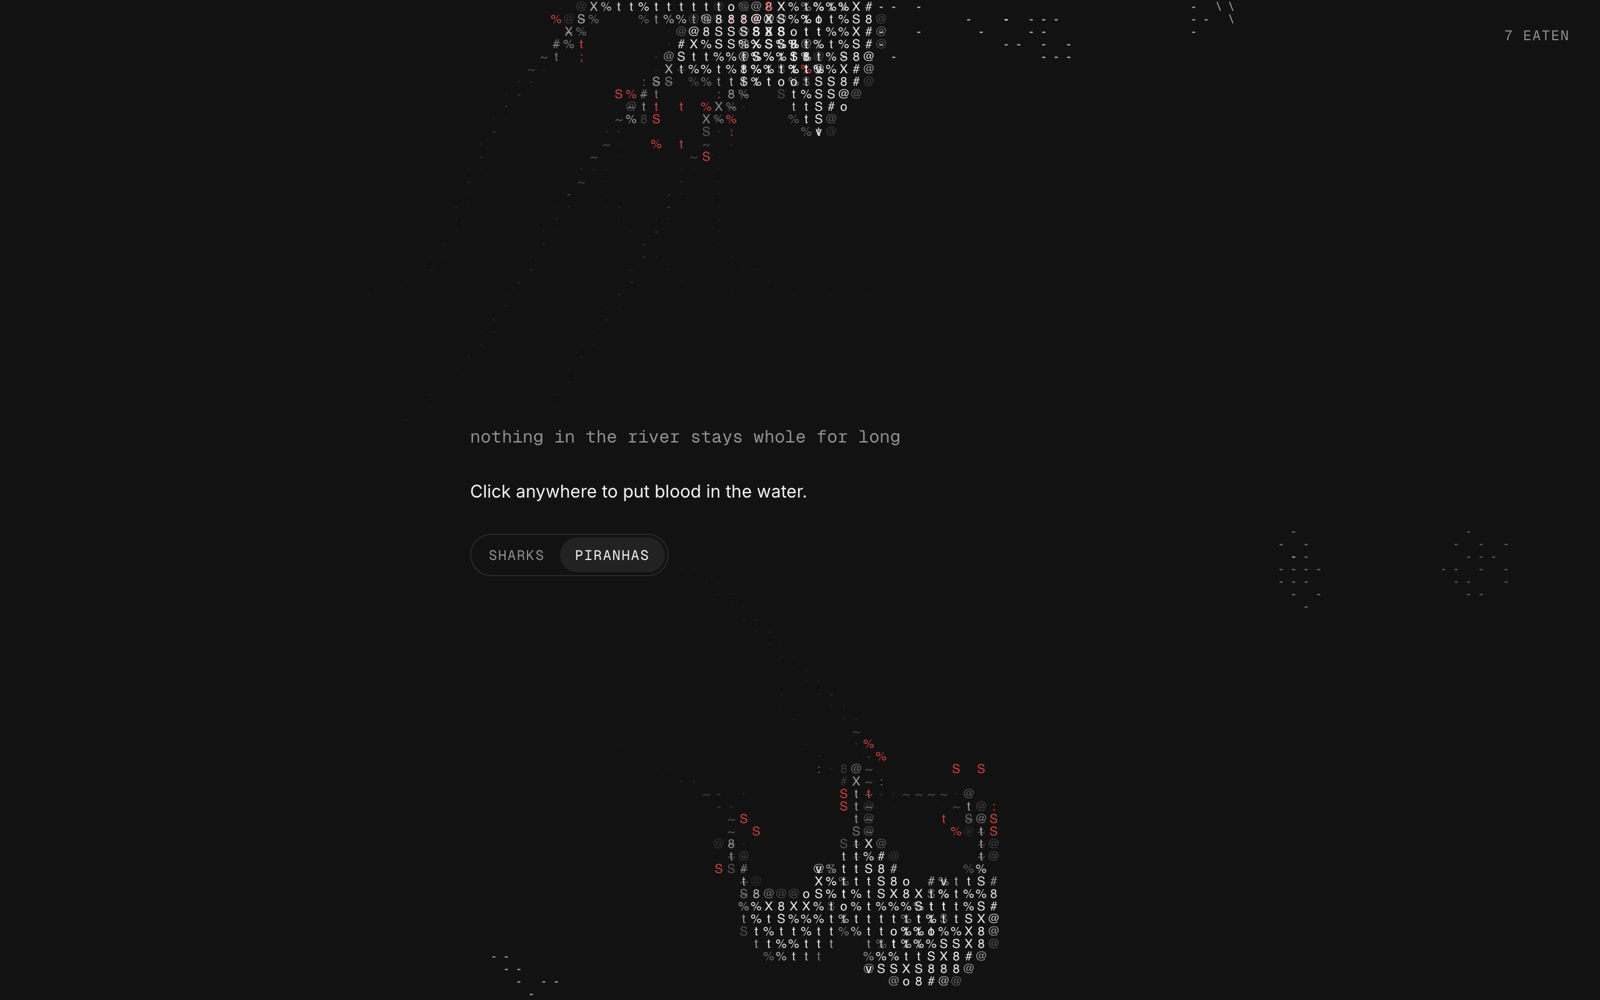
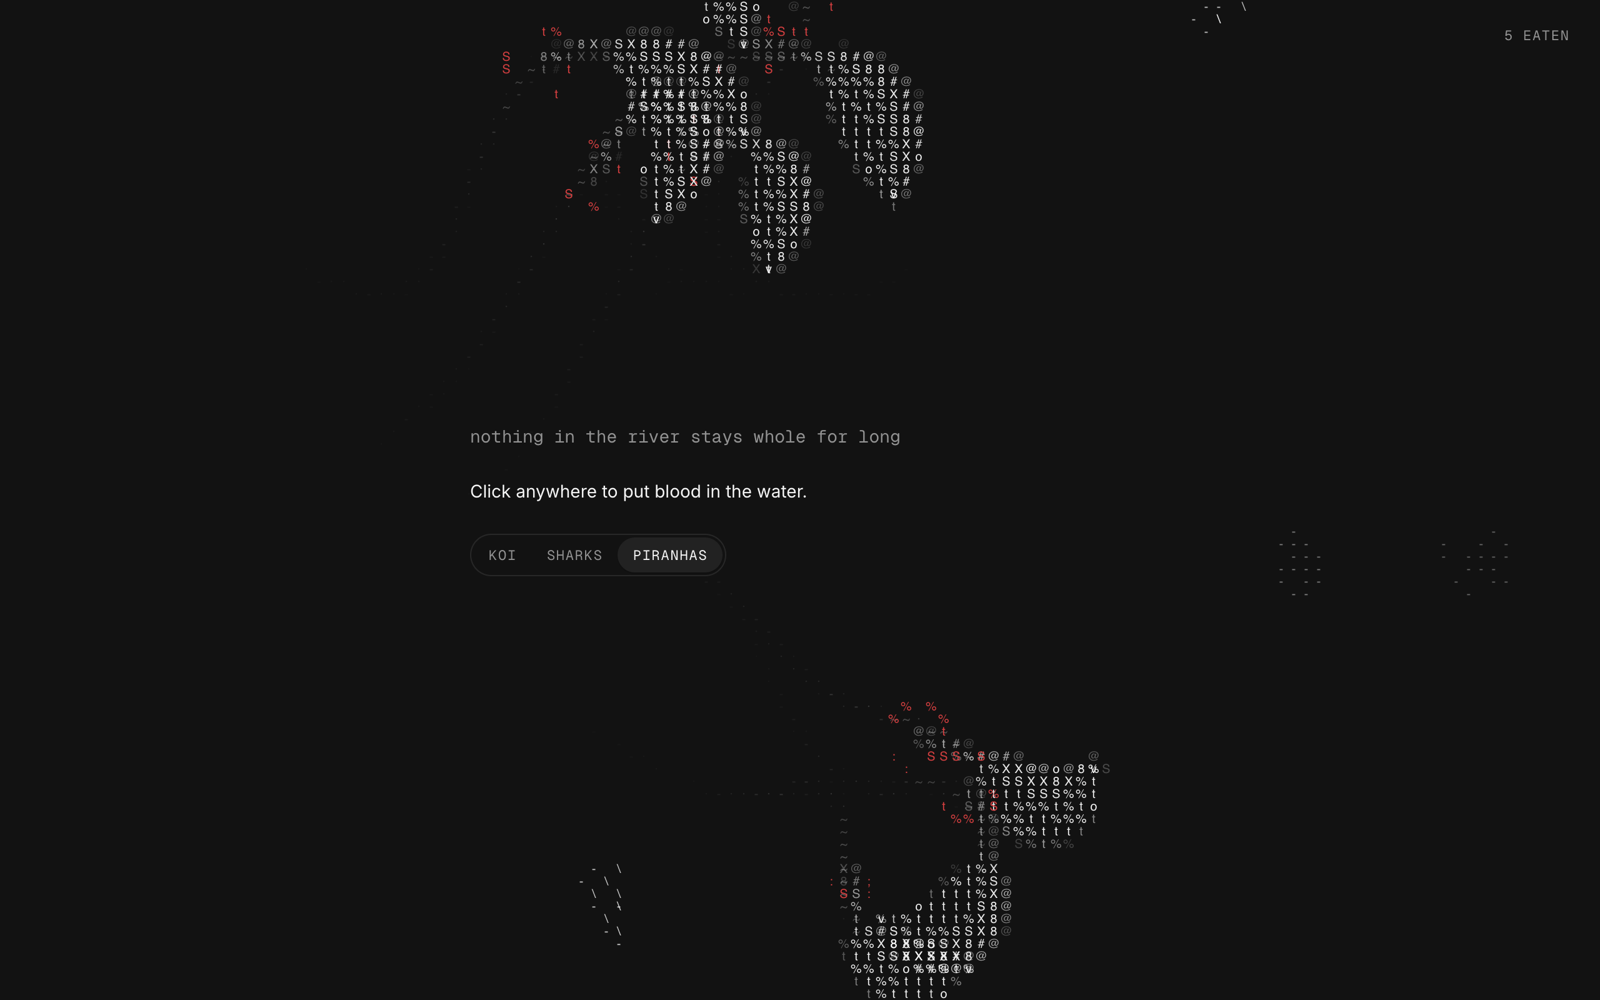
Koi drawn like the reference: glyph-cut tiles lit along the back, patches deepening to rust, a dotted shadow, a dark tail fan; koi joins sharks and piranhas behind one switch; the playground starts dark; useAsciiCanvas gives draw the page's paper

diff --git a/registry/examples/ocean.tsx b/registry/examples/ocean.tsx
@@ -1,50 +1,61 @@
 import * as React from "react"
 
+import { KoiPond } from "@/components/blocks/koi-pond"
 import { Ocean } from "@/components/blocks/ocean"
 import { Segmented, SegmentedItem } from "@/components/ds/segmented"
 
-// Example: the ocean as a page's backdrop, sharks or a piranha pack. A short
-// line sits over the water and the corner counts what was eaten; switching
-// predator starts a new count.
+// Example: the ASCII water as a page's backdrop, koi, sharks or a piranha
+// pack. A short line sits over the water, the switch picks what swims, and
+// the corner counts what was eaten; switching starts a new count.
 
-const PREDATORS = [
-  { value: "shark", label: "Sharks" },
-  { value: "piranha", label: "Piranhas" },
-] as const
+type Water = "koi" | "shark" | "piranha"
 
-export function OceanExample({ predator: initial = "shark" }: { predator?: "shark" | "piranha" }) {
-  const [predator, setPredator] = React.useState<"shark" | "piranha">(initial)
+const WATERS: { value: Water; label: string; line: string; hint: string }[] = [
+  { value: "koi", label: "Koi", line: "in a pond of patient things, cast a little food", hint: "Click anywhere to drop food. The koi turn for it." },
+  { value: "shark", label: "Sharks", line: "the quiet ones circle the stragglers", hint: "Click anywhere to drop a school of fish." },
+  { value: "piranha", label: "Piranhas", line: "nothing in the river stays whole for long", hint: "Click anywhere to put blood in the water." },
+]
+
+export function OceanExample({ predator: initial = "shark" }: { predator?: Water }) {
+  const [water, setWater] = React.useState<Water>(initial)
   const [eaten, setEaten] = React.useState(0)
+  const w = WATERS.find((x) => x.value === water)!
 
-  return (
-    <Ocean key={predator} predator={predator} className="h-svh w-full cursor-crosshair" onEat={setEaten}>
+  const content = (
+    <>
       <div className="pointer-events-none relative mx-auto flex h-full max-w-xl flex-col justify-center gap-6 px-6">
-        <p className="font-mono text-sm text-muted-foreground">
-          {predator === "shark" ? "the quiet ones circle the stragglers" : "nothing in the river stays whole for long"}
-        </p>
-        <p className="max-w-md text-sm text-foreground">
-          {predator === "shark" ? "Click anywhere to drop a school of fish." : "Click anywhere to put blood in the water."}
-        </p>
+        <p className="font-mono text-sm text-muted-foreground">{w.line}</p>
+        <p className="max-w-md text-sm text-foreground">{w.hint}</p>
         <div className="pointer-events-auto w-fit rounded-full bg-background/85 backdrop-blur-sm">
           <Segmented
-            aria-label="Predator"
-            value={predator}
+            aria-label="What swims"
+            value={water}
             onValueChange={(v) => {
-              setPredator(v as "shark" | "piranha")
+              setWater(v as Water)
               setEaten(0)
             }}
           >
-            {PREDATORS.map((p) => (
-              <SegmentedItem key={p.value} value={p.value}>
-                {p.label}
+            {WATERS.map((x) => (
+              <SegmentedItem key={x.value} value={x.value}>
+                {x.label}
               </SegmentedItem>
             ))}
           </Segmented>
         </div>
       </div>
       <span className="pointer-events-none absolute top-5 right-6 eyebrow text-muted-foreground tabular-nums">
-        {eaten} eaten
+        {eaten} {water === "koi" ? "fed" : "eaten"}
       </span>
+    </>
+  )
+
+  return water === "koi" ? (
+    <KoiPond key="koi" className="h-svh w-full cursor-crosshair" onFeed={setEaten}>
+      {content}
+    </KoiPond>
+  ) : (
+    <Ocean key={water} predator={water} className="h-svh w-full cursor-crosshair" onEat={setEaten}>
+      {content}
     </Ocean>
   )
 }

diff --git a/registry/blocks/koi-pond.tsx b/registry/blocks/koi-pond.tsx
@@ -222,7 +222,9 @@ function draw(g: AsciiGrid, p: Pond, accent: string) {
     g.dot(c, r, accent, Math.min(1, (FOOD_LIFE - f.age) / 3))
   }
 
-  for (const k of p.koi) {
+  // Rasterise every koi first, so the shadows can all sit under all the bodies.
+  type Cell = { c: number; r: number; s: number; l: number; n: number; w: number }
+  const bodies = p.koi.map((k) => {
     const L = k.length
     let x0 = Infinity, y0 = Infinity, x1 = -Infinity, y1 = -Infinity
     for (const [x, y] of k.spine) {
@@ -231,30 +233,58 @@ function draw(g: AsciiGrid, p: Pond, accent: string) {
     const pad = L * 0.16
     const [c0, r0] = cellOf(x0 - pad, y0 - pad)
     const [c1, r1] = cellOf(x1 + pad, y1 + pad)
-
+    const cells: Cell[] = []
     for (let r = Math.max(0, r0); r <= Math.min(g.rows, r1); r++)
       for (let c = Math.max(0, c0); c <= Math.min(g.cols, c1); c++) {
         const { s, l } = locate(k, (c + 0.5) * cell, (r + 0.5) * cell)
         const w = half(s) * L
-        const n = hash(c, r, k.seed)
-        if (Math.abs(l) > w + (n - 0.5) * cell * 0.35) continue
-        const edge = Math.abs(l) / Math.max(1, w)
-        if (s > 0.78) {
-          // The tail fan: wispy, fading into the water.
-          const fade = 1 - (s - 0.78) / 0.22
-          if (n < 0.25 + edge * 0.3) continue
-          g.block(c, r, g.ink, 0.12 + fade * 0.3)
-          continue
-        }
-        const patch = k.patches.some((q) => {
-          const ds = (s - q.s) * L
-          const dl = l - q.l * L
-          return Math.hypot(ds, dl) < q.r * L + (n - 0.5) * cell
-        })
-        const shade = 0.5 + n * 0.22 - edge * 0.18 - smooth(0.5, 0.78, s) * 0.2
-        g.block(c, r, patch ? accent : g.ink, patch ? 0.8 + n * 0.2 : shade)
+        // Texture lives in body space, so it travels with the koi.
+        const n = hash(Math.round((s * L) / cell), Math.round(l / cell), k.seed)
+        if (Math.abs(l) > w + (n - 0.5) * cell * 0.3) continue
+        cells.push({ c, r, s, l, n, w })
       }
+    return cells
+  })
 
+  // A soft dotted shadow on the pond floor, down and to the right.
+  const lit = new Set(bodies.flat().map((q) => `${q.c},${q.r}`))
+  for (const q of bodies.flat()) {
+    const key = `${q.c + 1},${q.r + 2}`
+    if (lit.has(key) || q.s > 0.85) continue
+    g.glyph(q.c + 1, q.r + 2, q.n > 0.5 ? ":" : ".", g.ink, 0.22)
+  }
+
+  p.koi.forEach((k, i) => {
+    const L = k.length
+    for (const { c, r, s, l, n, w } of bodies[i]) {
+      const edge = Math.abs(l) / Math.max(1, w)
+      if (s > 0.78) {
+        // The tail fan: dark tiles fading into the water.
+        if (n < 0.12) continue
+        g.block(c, r, g.ink, 0.1 + (1 - (s - 0.78) / 0.22) * 0.18)
+        continue
+      }
+      const patch = k.patches.some((q) => {
+        const ds = (s - q.s) * L
+        const dl = l - q.l * L
+        return Math.hypot(ds, dl) < q.r * L + (n - 0.5) * cell
+      })
+      // Lit along the back, darker at the flanks and towards the tail.
+      const light = 0.72 - edge * edge * 0.38 - smooth(0.45, 0.78, s) * 0.32 + (n - 0.5) * 0.14
+      if (patch) {
+        g.block(c, r, accent, 0.95)
+        // Patches deepen in places, from orange to rust.
+        if (n < 0.3 || edge > 0.8) g.block(c, r, "#000", n < 0.12 ? 0.42 : 0.24)
+      } else {
+        g.block(c, r, g.ink, 0.2 + light * 0.62)
+      }
+      // A glyph cut into each tile, denser where the body is darker.
+      g.glyph(c, r, "XS%8"[Math.floor(n * 4)], g.paper, patch ? 0.4 : 0.22 + (1 - light) * 0.25)
+    }
+  })
+
+  for (const k of p.koi) {
+    const L = k.length
     // Eyes, whiskers, pectoral fins and the trailing tail strokes.
     const head = at(k, 0.06, 0)
     for (const side of [-1, 1]) {

diff --git a/playground/App.tsx b/playground/App.tsx
@@ -12,7 +12,6 @@ import { AiSpendExample as AiSpend } from "@/examples/ai-spend"
 import { FleetHealthExample as FleetHealth } from "@/examples/fleet-health"
 import { GroundStationExample as GroundStation } from "@/examples/ground-station"
 import { MergeConflictsExample as MergeConflicts } from "@/examples/merge-conflicts"
-import { KoiPondExample as KoiPond } from "@/examples/koi-pond"
 import { OceanExample } from "@/examples/ocean"
 import { PurchaseOrdersExample as PurchaseOrders } from "@/examples/purchase-orders"
 import { ModelEvalsExample as ModelEvals } from "@/examples/model-evals"
@@ -57,7 +56,7 @@ const WIDGETS = {
   merge: { label: "Merge conflicts", component: MergeConflicts, full: false },
   orders: { label: "Purchase orders", component: PurchaseOrders, full: false },
   evals: { label: "Evals", component: ModelEvals, full: false },
-  koi: { label: "Koi pond (ASCII)", component: KoiPond, full: true },
+  koi: { label: "Koi pond (ASCII)", component: () => <OceanExample predator="koi" />, full: true },
   sharks: { label: "Sharks (ASCII)", component: () => <OceanExample predator="shark" />, full: true },
   piranhas: { label: "Piranhas (ASCII)", component: () => <OceanExample predator="piranha" />, full: true },
   bottega: { label: "Bottega", component: Bottega, full: true },

diff --git a/registry/hooks/use-ascii-canvas.ts b/registry/hooks/use-ascii-canvas.ts
@@ -23,6 +23,8 @@ export type AsciiGrid = {
   rows: number
   /** The canvas's computed `color`: the ink every glyph and cell is drawn in. */
   ink: string
+  /** The page's background, for glyphs cut into a tile. */
+  paper: string
   /** Seconds since start. */
   time: number
   /** Fill one cell as a small rounded square. */
@@ -81,6 +83,7 @@ export function useAsciiCanvas<S>({
     let width = 0
     let height = 0
     let ink = "currentColor"
+    let paper = "transparent"
     let visible = true
     let raf = 0
     let last = 0
@@ -97,6 +100,7 @@ export function useAsciiCanvas<S>({
       cols: Math.ceil(width / cell),
       rows: Math.ceil(height / cell),
       ink,
+      paper,
       time,
       block: (c, r, color, alpha) => {
         if (alpha <= 0.01) return
@@ -139,6 +143,7 @@ export function useAsciiCanvas<S>({
 
     const readInk = () => {
       ink = getComputedStyle(el).color || "currentColor"
+      paper = getComputedStyle(document.documentElement).getPropertyValue("--background").trim() || "transparent"
     }
 
     const resize = () => {

diff --git a/index.html b/index.html
@@ -5,7 +5,7 @@
     <meta name="viewport" content="width=device-width, initial-scale=1.0" />
     <title>uia — agent UI</title>
     <meta name="description" content="Interfaces for AI agents: chat, decisions and generative UI, on shadcn and Base UI. Installable through the shadcn registry." />
-    <meta name="theme-color" content="#ffffff" />
+    <meta name="theme-color" content="#111111" />
     <link rel="icon" type="image/png" sizes="32x32" href="/favicon-32.png" />
     <link rel="apple-touch-icon" href="/apple-touch-icon.png" />
     <link rel="canonical" href="https://uia.imfrank.dev/" />

diff --git a/playground/main.tsx b/playground/main.tsx
@@ -8,7 +8,7 @@ import { TooltipProvider } from "@/components/ui/tooltip"
 
 createRoot(document.getElementById("root")!).render(
   <StrictMode>
-    <ThemeProvider>
+    <ThemeProvider defaultTheme="dark">
       <TooltipProvider>
         <App />
       </TooltipProvider>

diff --git a/skills/uia/references/examples.md b/skills/uia/references/examples.md
@@ -24,8 +24,8 @@ your visual reference. Screenshots are also in the uia repo under
 | Fleet health | `example-fleet-health` | big live number + delta + `Sparkline`, row of three `TickMeter` stats, heatmap with tooltip, view modes (`Segmented`), focus, an action that changes the data | monitoring, infrastructure, live metrics, grids of things |
 | Ground station | `example-ground-station` | drag-to-turn wireframe globe with orbits (front solid, back dashed), the night side shaded for volume, satellites as a small glyph along their heading, a recenter button only once turned, "in view" stat, sky plot of the pass (dashed when upcoming, live in `success`), countdown or live Mbps, onboard `MeterBar`, satellites as `WidgetListRow`s with a 3 h pass timeline + `StatusBadge`, station `Select` with mono coordinates, UTC clock ×60 in the footer and a Book CTA that books the next pass (never the one under way); switching station says "Tracking from …" where the clock is, for a moment (no toast); out-of-view rows use a hollow dot; phones drop the timelines | live tracking of things moving over a place (satellites, fleets, deliveries), any widget with a spatial view + a list of upcoming windows |
 | Purchase orders + Filter | `example-purchase-orders` | **PurchaseOrders:** status `Segmented` with mono counts (a `Select` on phones), removable date chip, supplier `Select`, search that opens from an icon; rows as a schedule — placed → delivery, `brand` fill as far as billed, dashed outline while pending, a ring for delivery, one dashed "Today" line and week lines drawn once behind the rows, legend under it; checkboxes turn the footer into bulk actions. **BillsFilter:** due-date chips that read "Sep 1" over the native picker, an amount range over its histogram (bars lit inside the range, sqrt scale), "Overdue only" switch, document types with counts, "Show N bills" counting live, Reset once changed | any list of records over time with bulk actions; any filter panel (show the distribution you are cutting, count the result on the button) |
-| Koi pond | `example-koi-pond` | an ASCII backdrop: koi as small blocks in the ink with patches in one colour, eyes punched out, whiskers and fins as strokes, swimming on a cell grid under a typed line; click drops food, rings spread in ASCII and the nearest koi turn for it; the corner counts what was eaten | landing and empty pages, a hero behind a short line; never inside a widget |
-| Ocean | `example-ocean` | an ASCII backdrop of predators and prey: bait fish as single strokes that school and scatter, predators shaded with a glyph ramp (sparse where the light falls, dense in shadow); sharks are shaded tiles (a few in the shark's own muted hues, shifting slowly) with a tail wave, at three depths (deeper is smaller and dimmer, passing under), a fading wake, swept-back pectorals that bank into turns, a dorsal line, gill slits and a forked tail, every second one a hammerhead, turning wide and lunging at stragglers, aiming where the fish will be; a piranha pack with fins in one colour; click drops a school for the sharks, or blood for the piranhas, which go into a frenzy and tear through it; the corner counts what was eaten | the same places as the koi pond: landing, empty and error pages, behind a short line |
+| Koi pond | `example-koi-pond` | an ASCII backdrop: koi as tiles with a glyph cut into each (lit along the back, darker at the flanks), patches in one colour that deepen to rust, a dotted shadow on the pond floor, a dark tail fan, eyes punched out, whiskers and fins as strokes, swimming on a cell grid under a typed line; click drops food, rings spread in ASCII and the nearest koi turn for it; the corner counts what was eaten | landing and empty pages, a hero behind a short line; never inside a widget |
+| Ocean | `example-ocean` | the ASCII waters behind one switch (Koi, Sharks, Piranhas); predators and prey: bait fish as single strokes that school and scatter, predators shaded with a glyph ramp (sparse where the light falls, dense in shadow); sharks are shaded tiles (a few in the shark's own muted hues, shifting slowly) with a tail wave, at three depths (deeper is smaller and dimmer, passing under), a fading wake, swept-back pectorals that bank into turns, a dorsal line, gill slits and a forked tail, every second one a hammerhead, turning wide and lunging at stragglers, aiming where the fish will be; a piranha pack with fins in one colour; click drops a school for the sharks, or blood for the piranhas, which go into a frenzy and tear through it; the corner counts what was eaten | the same places as the koi pond: landing, empty and error pages, behind a short line |
 | Merge conflicts | `example-merge-conflicts` | a pull request behind its base: branches as a commit graph drawn row by row (one lane per branch, curves only where a branch forks or merges, so lines stay aligned as rows arrive), the base commit that touched the same lines tagged, conflicting files as a list linked to the graph (hover dims the other commits), each file opening to both sides with a bar in its branch colour, then the resolved lines coloured by origin; one verb at a time in the footer (Merge main and resolve → Merge pull request); the merge commit arrives dashed and shimmering, files resolve one by one. Also answered in the Assistant (`?scenario=merge`) at `size="sm"` | code review, CI, any agent that fixes something in the person's repo and needs a go-ahead; any history with branches |
 | Model router | `example-model-router` | number + `Segmented` policy, flow graph linked to a list, inline controls in a sentence (Fallback if … retry on …), deploy with states | configuration with a preview, routing, A/B, policies |
 | Agent runtime | `example-agent-runtime` | small number of things with state, illustration that highlights the focused thing, list rows with badge + countdown, select → act | resources with lifecycle (jobs, agents, sandboxes, workers) |

diff --git a/skills/uia/references/components.md b/skills/uia/references/components.md
@@ -292,7 +292,7 @@ Surfaces (agent-composed UI, see `surfaces.md`): `surface` (runtime), `catalog`,
 Examples (fixtures over the widgets): `example-assistant`, `example-model-router`, `example-agent-runtime`, `example-ai-spend`, `example-fleet-health`, `example-ground-station`, `example-purchase-orders`, `example-merge-conflicts`, `example-koi-pond`, `example-ocean`, `example-model-evals`, `example-bottega`, `example-davinci`, `example-surface` (bundle: `examples`).
 Generative UI: `action-card`, `decision-card`, `status-card`, `activity`, `policy`, `diff`, `citation`, `ask-user`, `confirmation`, `preview-approval`, `decision-chip`, `draft-card`, `plan`, `connect-prompt`, `findings`, `chart-card`, `attachment`, `part-transition`, `tool-line`, `reasoning`, `sources`, `search-results`, `markdown`.
 Chat: `agent-chat`, `chat-thread`, `chat-turn`, `turn-actions`, `composer`, `chat-empty`, `chat-status`, `chat-error`, `chat-pill`.
-Lib: `motion`, `ai`, `url`, `highlighter`. Hook: `ascii-canvas` (`useAsciiCanvas({ cell, init, step, draw })` → `{ canvas, scene }`; `draw` gets a grid with `block`, `glyph`, `dot`, `clear` and the `ink`; it also exports `hash` and `stroke`).
+Lib: `motion`, `ai`, `url`, `highlighter`. Hook: `ascii-canvas` (`useAsciiCanvas({ cell, init, step, draw })` → `{ canvas, scene }`; `draw` gets a grid with `block`, `glyph`, `dot`, `clear`, the `ink` and the `paper`; it also exports `hash` and `stroke`).
 Bundles: `uia` (everything), `chat`, `hitl`, `blocks`, `surfaces`, `examples`.
 Skill: `skill` (this file set).
 
